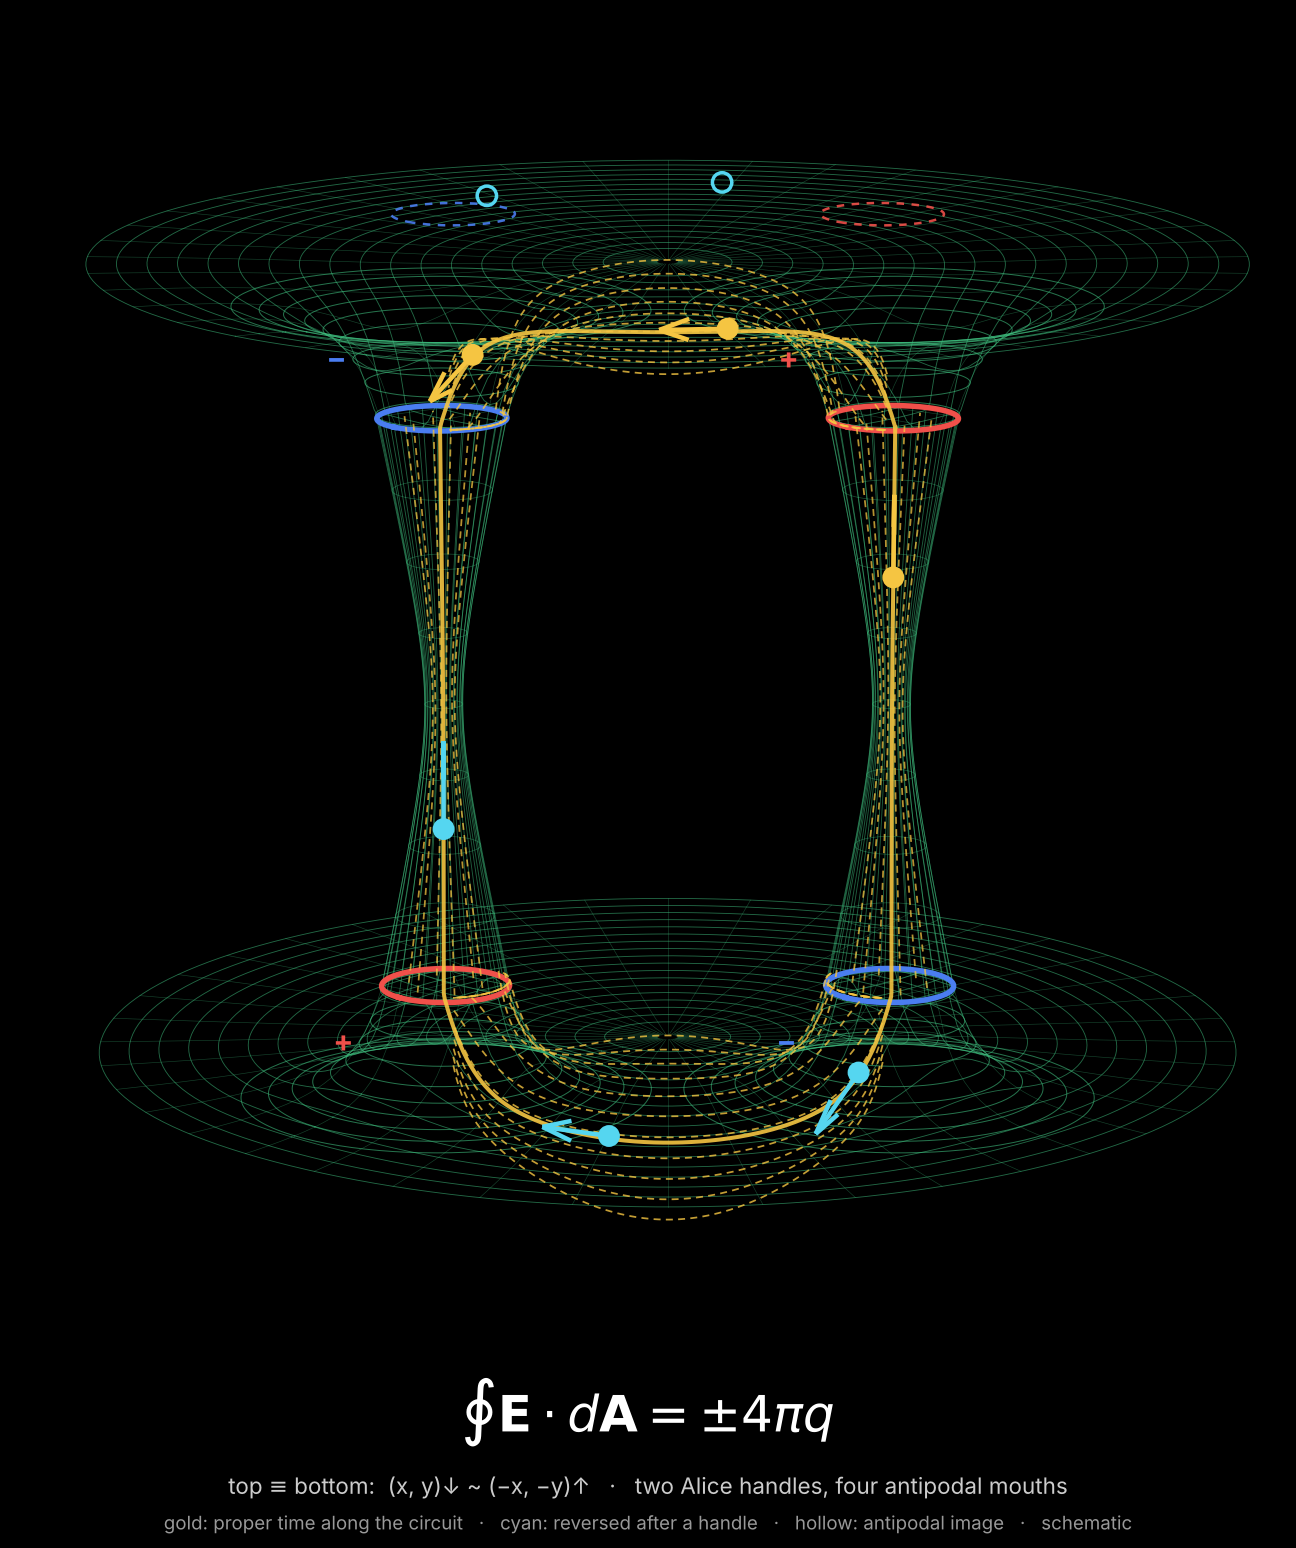
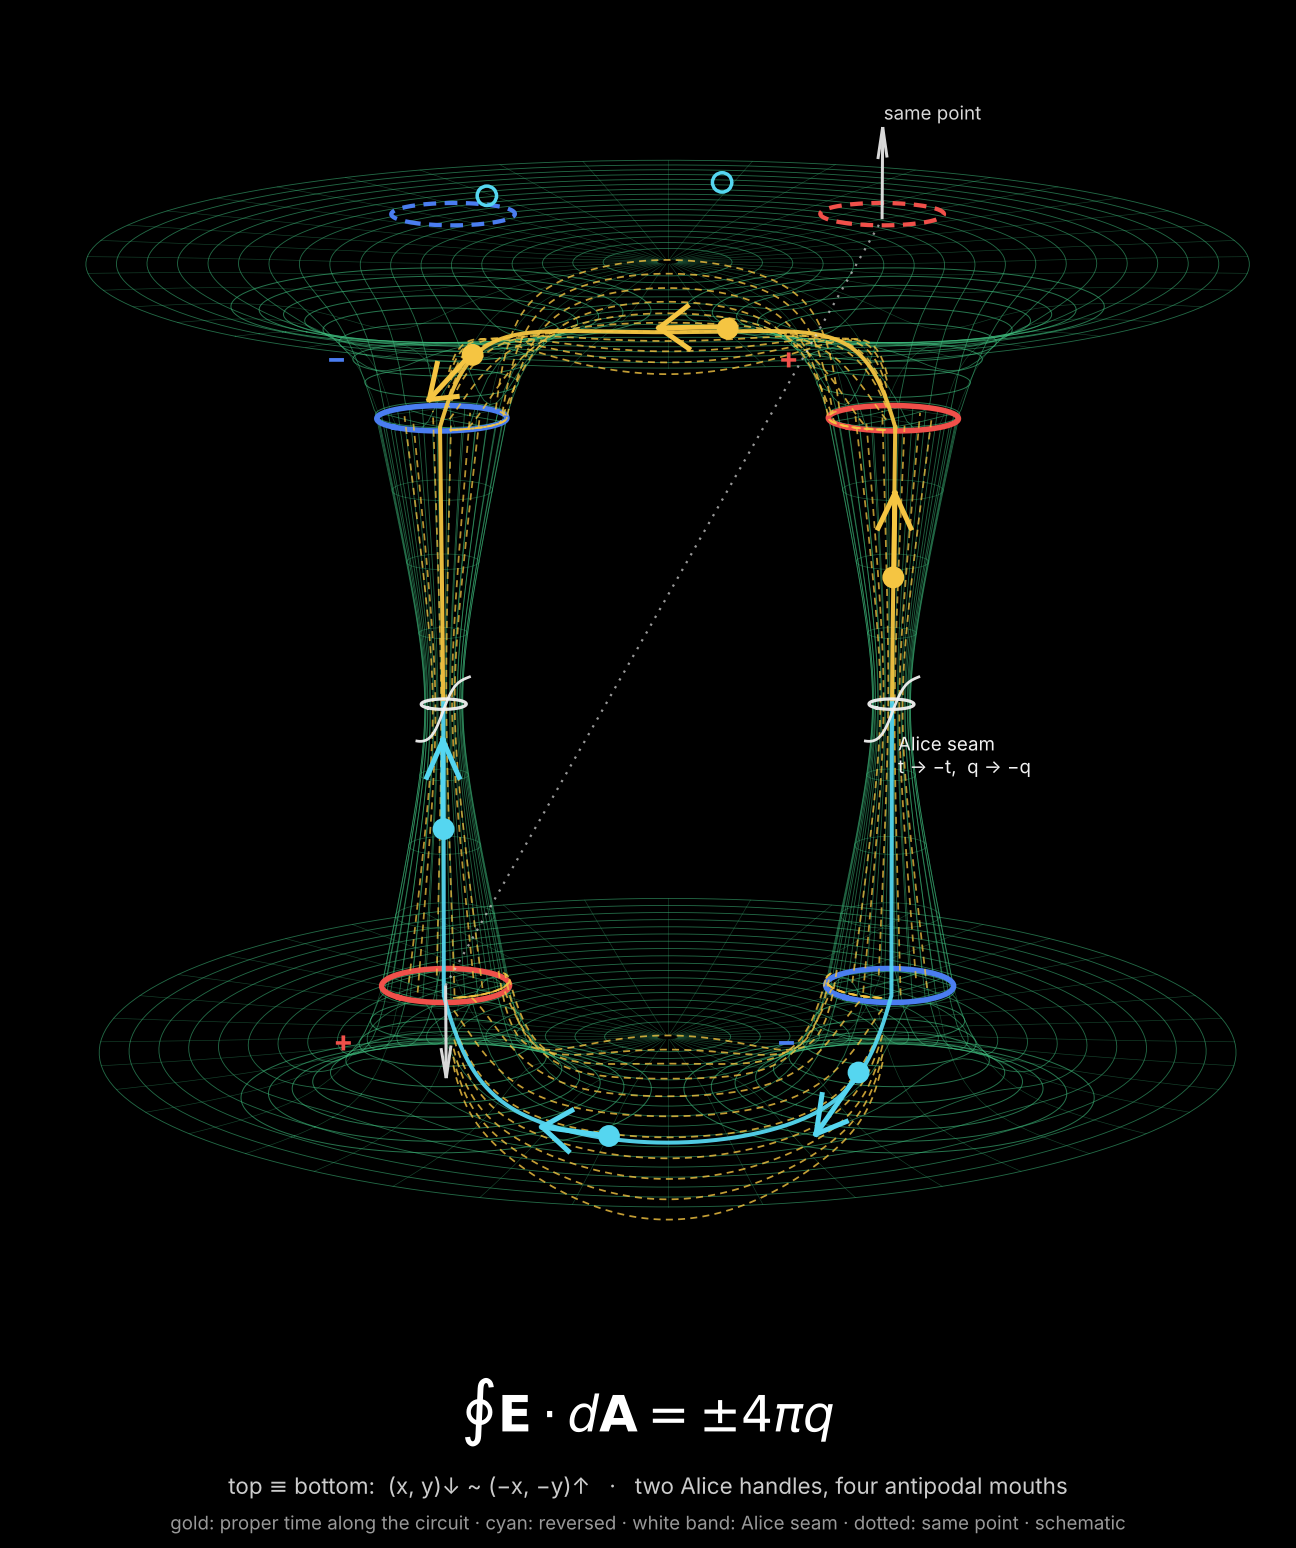
Mark the Alice seams and one antipodal pairing in the circulation figure
The worldline is now gold where proper time runs with the circulation and cyan
where it is reversed, with a white seam band and half-twist tick at each waist
labelled t -> -t, q -> -q. Each handle is the s_t = s_f = -1 seam type, the only
time-reversing type that lets trapped flux through the tube (E2 of the
Klein-handle electric test). The antipodal image rings are brighter, and one
dotted chord with normal ticks pairs the bottom + mouth with its image.
Arrowheads are drawn by hand because 3D quiver drops them on vertical arrows.
Two tests added: the seam type admits threading flux, and the flips sit at
the waists.

Claude-Session: https://claude.ai/code/session_01SAYeudgovtRUXLLVm9Z3Cy

diff --git a/geometrodynamics/viz/alice_circulation.py b/geometrodynamics/viz/alice_circulation.py
@@ -17,6 +17,12 @@ sheet and against it on the bottom sheet. One circular worldline carries both
 timelike directions. A ball on the bottom sheet is also shown as a hollow ghost
 at its antipode on the top sheet, because they are the same surface.
 
+Each handle is the time-reversing, charge-conjugating seam type, s_t = s_f = −1.
+That is the only time-reversing type that admits flux through the tube
+(``docs/klein_handle_electric.md``, E2: trapped flux needs s_t·s_f = +1). The
+flip is drawn as a seam at each waist. On a non-orientable space where to cut
+is a choice of chart; that the circuit crosses two such seams is not.
+
 The throat profile is the finite-mouth neck r(s) = sqrt(s² + b²) of
 ``bulk.finite_mouth`` with a = 0.3, stretched vertically for display.
 """
@@ -74,6 +80,16 @@ def mouth_charges():
     and enters mouth 2 (−).
     """
     return {("top", 1): -1, ("top", 2): +1, ("bottom", 1): +1, ("bottom", 2): -1}
+
+
+def seam_signs():
+    """(s_t, s_f) of each Alice handle: time orientation and fibre (charge) reversal."""
+    return {1: (-1, -1), 2: (-1, -1)}
+
+
+def flux_through_tube_allowed(s_t: int, s_f: int) -> bool:
+    """E2 of the Klein-handle electric test: trapped flux threads the tube iff s_t·s_f = +1."""
+    return s_t * s_f == +1
 
 
 # ---- the closed worldline -------------------------------------------------------------------
@@ -164,6 +180,9 @@ def orientation_flips(n: int = 4000) -> int:
 # ---- rendering ------------------------------------------------------------------------------
 
 GOLD, CYAN, RED, BLUE, GREEN = "#f5c542", "#55d6f0", "#f0504a", "#4a7df0", "#3fbf7f"
+SEAM, PAIR = "#f2f2f2", "#d9d9d9"
+VIEW = np.array([np.cos(np.radians(13)) * np.cos(np.radians(45)),
+                 np.cos(np.radians(13)) * np.sin(np.radians(45)), np.sin(np.radians(13))])
 
 
 def _draw_static(ax):
@@ -205,7 +224,7 @@ def _draw_static(ax):
         p = identify(c)
         col = RED if q[("bottom", i)] > 0 else BLUE
         xy = p + RIM * np.column_stack([np.cos(th), np.sin(th)])
-        ax.plot(xy[:, 0], xy[:, 1], sheet_height(xy, True) + 0.02, color=col, lw=1.0, ls=(0, (3, 3)), alpha=0.9)
+        ax.plot(xy[:, 0], xy[:, 1], sheet_height(xy, True) + 0.02, color=col, lw=1.7, ls=(0, (3, 2)), alpha=1.0)
     # sourceless flux: dashed lines on each sheet between its two mouths, and through each throat
     m1, m2 = COLUMNS
     for top in (True, False):
@@ -217,10 +236,52 @@ def _draw_static(ax):
         for phi in np.linspace(0, 2 * np.pi, 6, endpoint=False):
             r = 0.6 * column_radius(z)
             ax.plot(c[0] + r * np.cos(phi), c[1] + r * np.sin(phi), z, color=GOLD, lw=0.7, ls=(0, (4, 3)), alpha=0.75)
-    # the worldline itself
-    s = np.linspace(0, 1, 800)
-    P = np.array([worldline(x).xyz for x in s])
-    ax.plot(P[:, 0], P[:, 1], P[:, 2] + 0.02, color=GOLD, lw=1.6, alpha=0.9)
+    # the worldline itself, gold where proper time runs with the circulation, cyan where reversed
+    s = np.linspace(0, 1, 1601)
+    W = [worldline(x) for x in s]
+    P = np.array([w.xyz for w in W]) + 0.02 * np.r_[0, 0, 1]
+    O = np.array([w.orientation for w in W])
+    for sign, col in ((+1, GOLD), (-1, CYAN)):
+        Q = P.copy()
+        Q[O != sign] = np.nan
+        ax.plot(Q[:, 0], Q[:, 1], Q[:, 2], color=col, lw=1.6, alpha=0.95)
+    # the Alice seams: a band at each waist with a half-twist tick
+    for c in COLUMNS:
+        r = 1.18 * column_radius(0.0)
+        ax.plot(c[0] + r * np.cos(th), c[1] + r * np.sin(th), np.zeros_like(th), color=SEAM, lw=1.3, alpha=0.95)
+        u = np.linspace(-1, 1, 40)
+        ang = np.arctan2(FRONT[1], FRONT[0]) + 0.9 * u
+        ax.plot(c[0] + 1.5 * r * np.cos(ang), c[1] + 1.5 * r * np.sin(ang), 0.12 * np.tanh(2.5 * u),
+                color=SEAM, lw=1.1, alpha=0.95)
+    c2 = COLUMNS[1]
+    ax.text(c2[0] + 0.75, c2[1] + 0.75, -0.05, "Alice seam\nt → −t,  q → −q", color=SEAM, fontsize=7.5)
+    # one antipodal pairing: bottom mouth 1 is the top-sheet point −c1, normals ↓ and ↑
+    c1 = COLUMNS[0]
+    zb = -(HEIGHT / 2 - DEPTH)
+    img = identify(c1)
+    zi = sheet_height(img, True)[0]
+    ax.plot([c1[0], img[0]], [c1[1], img[1]], [zb, zi], color=PAIR, lw=0.9, ls=(0, (1, 3)), alpha=0.7)
+    ax.quiver(c1[0], c1[1], zb, 0, 0, -0.35, color=PAIR, lw=1.2, arrow_length_ratio=0.35)
+    ax.quiver(img[0], img[1], zi, 0, 0, 0.35, color=PAIR, lw=1.2, arrow_length_ratio=0.35)
+    ax.text(img[0] + 0.12, img[1] + 0.12, zi + 0.4, "same point", color=PAIR, fontsize=7.5)
+
+
+def _arrow(ax, base, d, color):
+    """A shaft with a chevron head drawn in the screen plane (3D quiver loses the head on vertical arrows)."""
+    tip = base + d
+    u = d / (np.linalg.norm(d) + 1e-15)
+    right = np.cross(VIEW, [0.0, 0.0, 1.0])
+    right /= np.linalg.norm(right)
+    w = np.cross(VIEW, u)
+    if np.linalg.norm(w) < 1e-6:
+        w = right
+    w /= np.linalg.norm(w)
+    h = 0.42 * np.linalg.norm(d)
+    lines = ax.plot(*np.array([base, tip]).T, color=color, lw=2.0)
+    for sgn in (+1, -1):
+        wing = tip - h * u + sgn * 0.55 * h * w
+        lines += ax.plot(*np.array([tip, wing]).T, color=color, lw=2.0)
+    return lines
 
 
 def render(path_gif=None, path_png=None, frames: int = 54, balls: int = 6, dpi: int = 90):
@@ -240,7 +301,7 @@ def render(path_gif=None, path_png=None, frames: int = 54, balls: int = 6, dpi: 
     fig.text(0.5, 0.075, r"$\oint \mathbf{E}\cdot d\mathbf{A} = \pm 4\pi q$", color="white", ha="center", fontsize=20)
     fig.text(0.5, 0.035, "top ≡ bottom:  (x, y)↓ ~ (−x, −y)↑   ·   two Alice handles, four antipodal mouths",
              color="#cccccc", ha="center", fontsize=9)
-    fig.text(0.5, 0.012, "gold: proper time along the circuit   ·   cyan: reversed after a handle   ·   hollow: antipodal image   ·   schematic",
+    fig.text(0.5, 0.012, "gold: proper time along the circuit · cyan: reversed · white band: Alice seam · dotted: same point · schematic",
              color="#999999", ha="center", fontsize=7.5)
 
     dots = ax.scatter([], [], [], s=60, depthshade=False)
@@ -267,7 +328,7 @@ def render(path_gif=None, path_png=None, frames: int = 54, balls: int = 6, dpi: 
             ghosts._offsets3d = ([], [], [])
         for p, c in zip(pts, cols):
             d = 0.32 * p.orientation * p.tangent
-            arrows.append(ax.quiver(*p.xyz + np.array([0, 0, 0.03]), *d, color=c, lw=1.8, arrow_length_ratio=0.45))
+            arrows += _arrow(ax, p.xyz + np.array([0, 0, 0.03]) + 0.09 * VIEW, d, c)
         return [dots, ghosts, *arrows]
 
     if path_png is not None:

diff --git a/tests/test_viz_alice_circulation.py b/tests/test_viz_alice_circulation.py
@@ -59,3 +59,19 @@ def test_both_time_orientations_on_one_circuit():
 def test_render_smoke(tmp_path):
     ac.render(path_png=tmp_path / "still.png", frames=4, balls=3, dpi=40)
     assert (tmp_path / "still.png").stat().st_size > 10_000
+
+
+def test_handles_are_the_seam_type_that_admits_threading_flux():
+    for s_t, s_f in ac.seam_signs().values():
+        assert s_t == -1                               # an Alice handle reverses time orientation
+        assert ac.flux_through_tube_allowed(s_t, s_f)  # ... and must conjugate charge to carry the flux
+    assert not ac.flux_through_tube_allowed(-1, +1)
+
+
+def test_orientation_flips_at_the_waists():
+    s = np.linspace(0, 1, 8000, endpoint=False)
+    pts = [ac.worldline(x) for x in s]
+    flips = [pts[i].xyz for i in range(len(pts)) if pts[i].orientation != pts[i - 1].orientation]
+    assert len(flips) == 2
+    for xyz in flips:
+        assert abs(xyz[2]) < 0.01                      # at the narrowest point of a throat

diff --git a/docs/two_throat_nogo.md b/docs/two_throat_nogo.md
@@ -19,8 +19,16 @@ surface: the bottom point (x, y) is the top point (−x, −y).
   worldline. Each handle reverses time orientation at its waist, so a ball's
   proper-time arrow runs along the circulation on the top sheet (gold) and
   against it on the bottom (cyan).
+* **The Alice seam.** A white band with a half-twist tick marks each flip.
+  Each handle is the seam type with s_t = s_f = −1: it reverses both time and
+  charge. By E2 of `docs/klein_handle_electric.md`, that is the only
+  time-reversing type through whose tube trapped flux can pass. Placing the
+  seam at the waist is a choice of chart. That the circuit crosses two seams
+  is not.
 * **The single surface.** Dashed rings and hollow markers on the top sheet show
-  the bottom mouths and balls at their antipodal images on the one surface.
+  the bottom mouths and balls at their antipodal images on the one surface. One
+  dotted chord pairs the bottom + mouth with its image: the same point, with
+  the sheet normal ↓ below and ↑ above.
 * **Source.** Drawn by `geometrodynamics/viz/alice_circulation.py`. The throat
   profile is the finite-mouth neck with a = 0.3, stretched vertically.
 
